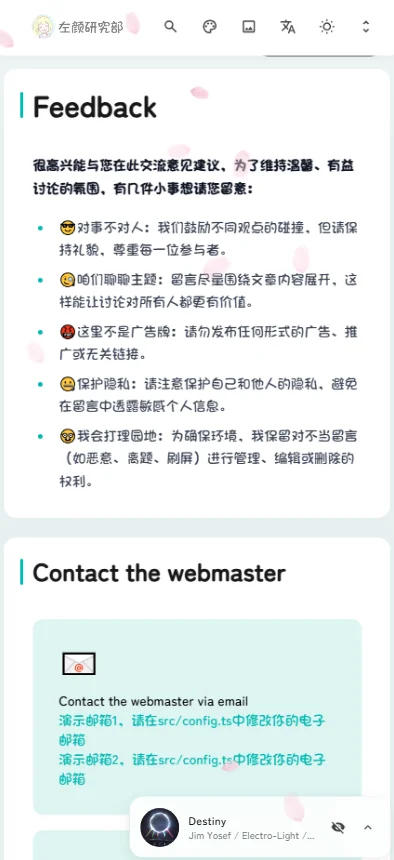
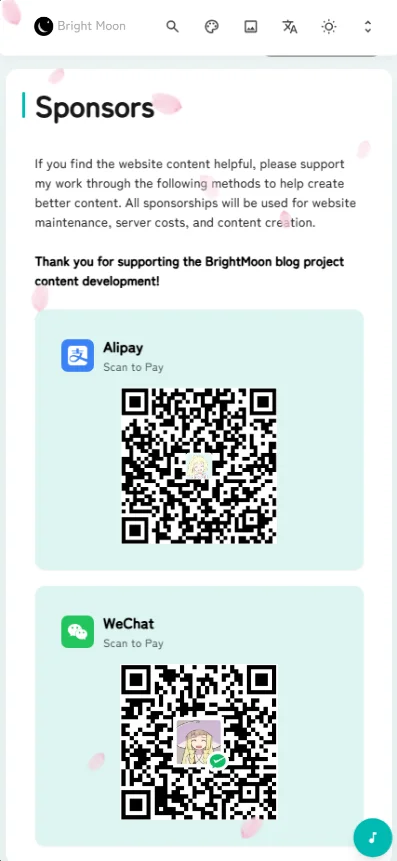
项目名称变更
Zuoyanblogs 临时代称正式更名 BrightMoon。取意简洁优雅、尽显二次元灵动气质。以此为界，重新出发，唯愿明月如初，清辉如故。

diff --git a/src/data/anime.ts b/src/data/anime.ts
@@ -22,7 +22,7 @@ const localAnimeList: AnimeItem[] = [
 		status: "completed",
 		rating: 10,
 		cover: "/assets/anime/Pokémon.webp",
-		description: "\"I got a Pokémon!!\"",
+		description: '"I got a Pokémon!!"',
 		episodes: "271 episodes",
 		year: "1997",
 		genre: ["Hot-blooded ", "Battle", "Inspirational", "Children"],
@@ -38,7 +38,8 @@ const localAnimeList: AnimeItem[] = [
 		status: "completed",
 		rating: 9.8,
 		cover: "/assets/anime/Himouto! Umaru-chan.webp",
-		description: "The perfect little sister, the perfect high school student, but at home she's a super lazy himouto.",
+		description:
+			"The perfect little sister, the perfect high school student, but at home she's a super lazy himouto.",
 		episodes: "12 episodes",
 		year: "2015",
 		genre: ["Slice of Life", "Moe"],
@@ -54,7 +55,8 @@ const localAnimeList: AnimeItem[] = [
 		status: "completed",
 		rating: 9.7,
 		cover: "/assets/anime/LoveLive! Sunshine.webp",
-		description: "The story of nine girls who strive forward with radiance as their goal.",
+		description:
+			"The story of nine girls who strive forward with radiance as their goal.",
 		episodes: "13 episodes",
 		year: "2016",
 		genre: ["Music", "Idol"],
@@ -86,7 +88,8 @@ const localAnimeList: AnimeItem[] = [
 		status: "completed",
 		rating: 9.8,
 		cover: "/assets/anime/CITY.webp",
-		description: "Welcome to the wonderfully thrilling CITY where heart-pounding moments await!",
+		description:
+			"Welcome to the wonderfully thrilling CITY where heart-pounding moments await!",
 		episodes: "13 episodes",
 		year: "2025",
 		genre: ["Manga Adaptation", "Slice of Life", "Comedy"],
@@ -187,7 +190,8 @@ const localAnimeList: AnimeItem[] = [
 		status: "completed",
 		rating: 9.8,
 		cover: "/assets/anime/Natsume's Book of Friends.webp",
-		description: "High school student Takashi Natsume has had the ability to see yokai since childhood.",
+		description:
+			"High school student Takashi Natsume has had the ability to see yokai since childhood.",
 		episodes: "13 episodes",
 		year: "2008",
 		genre: ["Fantasy", "Healing", "Tear-jerker", "Slice of Life"],
@@ -203,7 +207,8 @@ const localAnimeList: AnimeItem[] = [
 		status: "completed",
 		rating: 9.9,
 		cover: "/assets/anime/Natsume's Book of Friends_7.webp",
-		description: "High school student Takashi Natsume has had the ability to see yokai since childhood.",
+		description:
+			"High school student Takashi Natsume has had the ability to see yokai since childhood.",
 		episodes: "13 episodes",
 		year: "2024",
 		genre: ["Fantasy", "Healing", "Tear-jerker", "Slice of Life"],

diff --git a/src/config.ts b/src/config.ts
@@ -26,7 +26,7 @@ import { getTranslateLanguageFromConfig } from "./utils/language-utils";
 const SITE_LANG = "en"; // 语言代码，例如：'en', 'zh_CN', 'zh_TW' , 'ja' , 'ar' , 'de' , 'es' , 'fr', 'id' , 'ko' , 'ru' , 'th' , 'tr' , 'vi' 等。
 const SITE_TIMEZONE = 8; //设置你的网站时区 from -12 to 12 default in UTC+8
 export const siteConfig: SiteConfig = {
-	title: "Zuoyanblogs",
+	title: "BrightMoon",
 	subtitle: "Modern, feature-rich static blog",
 	siteURL: "https://www.example.com/", // 请替换为你的站点URL，以斜杠结尾
 	siteStartDate: "2025-10-30", // 站点开始运行日期，用于站点统计组件计算运行天数
@@ -670,7 +670,7 @@ export const pioConfig: import("./types/config").PioConfig = {
 	mode: "draggable", // 默认为可拖拽模式
 	hiddenOnMobile: true, // 默认在移动设备上隐藏
 	dialog: {
-		welcome: "Welcome to the Zuoyanblogs!", // 欢迎词
+		welcome: "Welcome to the BrightMoon!", // 欢迎词
 		touch: [
 			"What are you doing?",
 			"Do not touch me!",
@@ -680,7 +680,7 @@ export const pioConfig: import("./types/config").PioConfig = {
 		home: "Click here to return to the homepage !", // 首页提示
 		skin: ["Have you seen my new outfit ?", "This looks really good !"], // 换装提示
 		close: "QWQ , Next see you again~", // 关闭提示
-		link: "https://github.com/Zuoyan233/Zuoyanblogs", // 关于链接
+		link: "https://github.com/Zuoyan233/BrightMoon", // 关于链接
 	},
 };
 

diff --git a/src/i18n/languages/th.ts b/src/i18n/languages/th.ts
@@ -268,7 +268,7 @@ export const th: Translation = {
 	// Sponsorship Page
 	[Key.sponsorsNotice1]:
 		"หากคุณพบว่าเนื้อหาบนเว็บไซต์มีประโยชน์ กรุณาสนับสนุนงานของฉันผ่านวิธีการดังต่อไปนี้ เพื่อช่วยสร้างสรรค์เนื้อหาที่ดียิ่งขึ้น เงินสนับสนุนทั้งหมดจะถูกใช้ไปกับการบำรุงรักษาเว็บไซต์ ค่าเซิร์ฟเวอร์ และการสร้างสรรค์เนื้อหา",
-	[Key.sponsorsNotice2]: "ขอบคุณที่สนับสนุนการพัฒนาเนื้อหาของบล็อก Zuoyanblogs!",
+	[Key.sponsorsNotice2]: "ขอบคุณที่สนับสนุนการพัฒนาเนื้อหาของบล็อก BrightMoon!",
 	[Key.wechatPay]: "WeChat",
 	[Key.aliPay]: "Alipay",
 	[Key.scanPayQRcode]: "สแกนเพื่อชำระเงิน",

diff --git a/src/i18n/languages/ru.ts b/src/i18n/languages/ru.ts
@@ -279,7 +279,7 @@ export const ru: Translation = {
 	// Страница спонсорства
 	[Key.sponsorsNotice1]:
 		"Если материалы сайта оказались для вас полезны, пожалуйста, поддержите мою работу, используя один из способов ниже. Это поможет создавать более качественный контент. Все пожертвования будут направлены на поддержку сайта, оплату сервера и создание контента.",
-	[Key.sponsorsNotice2]: "Спасибо за поддержку развития блога Zuoyanblogs!",
+	[Key.sponsorsNotice2]: "Спасибо за поддержку развития блога BrightMoon!",
 	[Key.wechatPay]: "WeChat",
 	[Key.aliPay]: "Alipay",
 	[Key.scanPayQRcode]: "Сканируйте для оплаты",

diff --git a/src/i18n/languages/ja.ts b/src/i18n/languages/ja.ts
@@ -276,7 +276,7 @@ export const ja: Translation = {
 	[Key.sponsorsNotice1]:
 		"このウェブサイトの内容が役に立った場合は、以下の方法で活動を支援していただければ幸いです。より良いコンテンツ作成に役立てます。すべての支援は、ウェブサイトの維持、サーバー費用、コンテンツ制作に使用されます。",
 	[Key.sponsorsNotice2]:
-		"Zuoyanblogsブログプロジェクトのコンテンツ開発を支援していただき、ありがとうございます！",
+		"BrightMoon ブログプロジェクトのコンテンツ開発を支援していただき、ありがとうございます！",
 	[Key.wechatPay]: "WeChat",
 	[Key.aliPay]: "Alipay",
 	[Key.scanPayQRcode]: "スキャンして支払う",

diff --git a/src/data/devices.ts b/src/data/devices.ts
@@ -18,11 +18,12 @@ export type DeviceCategory = {
 export const devicesData: DeviceCategory = {
 	Xiaomi: [
 		{
-			name: "Xiaomi 15 Ultra",
-			image: "/images/device/Xiaomi 15 Ultra.webp",
-			specs: "白色 / 16G + 1TB",
-			description: "骁龙8至尊版芯片，徕卡夜神四摄，强续航金沙江电池",
-			link: "https://www.mi.com/prod/xiaomi-15-ultra",
+			name: "Xiaomi 17 Ultra by Leica",
+			image: "/images/device/Xiaomi 17 Ultra by Leica.webp",
+			specs: "黑银色 / 16G + 1TB",
+			description:
+				"第五代骁龙8至尊版芯片，徕卡APO认证超纯光学系统，徕卡一瞬还原真实相机本色，大师变焦环，双路立体环形冷泵，90W / 50W 有无线极速充电",
+			link: "https://www.mi.com/prod/xiaomi-17-ultra-byleica",
 		},
 	],
 };

diff --git a/src/data/projects.ts b/src/data/projects.ts
@@ -20,8 +20,8 @@ export interface Project {
 
 export const projectsData: Project[] = [
 	{
-		id: "zuoyanblogs",
-		title: "Zuoyanblogs",
+		id: "BrightMoon",
+		title: "BrightMoon",
 		description: "现代化特色功能的二次元静态博客主题（基于 Astro 框架驱动）",
 		image: "",
 		category: "web",
@@ -29,7 +29,7 @@ export const projectsData: Project[] = [
 		status: "completed",
 		liveDemo: "https://www.zuoyanblogs.xyz/",
 		sourceCode: "https://github.com/Zuoyan233", // 更改为GitHub链接
-		visitUrl: "https://github.com/Zuoyan233/Zuoyanblogs", // 添加前往项目链接
+		visitUrl: "https://github.com/Zuoyan233/BrightMoon", // 添加前往项目链接
 		startDate: "2025-10-01",
 		endDate: "2025-12-06",
 		featured: true,

diff --git a/src/i18n/languages/ar.ts b/src/i18n/languages/ar.ts
@@ -275,7 +275,7 @@ export const ar: Translation = {
 	// Sponsorship Page
 	[Key.sponsorsNotice1]:
 		"إذا وجدت محتوى الموقع مفيدًا، يرجى دعم عملي من خلال الطرق التالية للمساعدة في إنشاء محتوى أفضل. سيتم استخدام جميع التبرعات لصيانة الموقع وتكاليف الخادم وإنشاء المحتوى.",
-	[Key.sponsorsNotice2]: "شكرًا لدعمكم لتطوير محتوى مدونة Zuoyanblogs!",
+	[Key.sponsorsNotice2]: "شكرًا لدعمكم لتطوير محتوى مدونة BrightMoon!",
 	[Key.wechatPay]: "WeChat",
 	[Key.aliPay]: "Alipay",
 	[Key.scanPayQRcode]: "امسح للدفع",

diff --git a/src/i18n/languages/vi.ts b/src/i18n/languages/vi.ts
@@ -281,7 +281,7 @@ export const vi: Translation = {
 	[Key.sponsorsNotice1]:
 		"Nếu bạn thấy nội dung trang web hữu ích, vui lòng hỗ trợ công việc của tôi thông qua các phương thức sau để giúp tạo ra nội dung tốt hơn. Mọi khoản tài trợ sẽ được sử dụng cho việc duy trì trang web, chi phí máy chủ và sáng tạo nội dung.",
 	[Key.sponsorsNotice2]:
-		"Cảm ơn bạn đã hỗ trợ phát triển nội dung dự án blog Zuoyanblogs!",
+		"Cảm ơn bạn đã hỗ trợ phát triển nội dung dự án blog BrightMoon!",
 	[Key.wechatPay]: "WeChat",
 	[Key.aliPay]: "Alipay",
 	[Key.scanPayQRcode]: "Quét mã để thanh toán",

diff --git a/src/i18n/languages/tr.ts b/src/i18n/languages/tr.ts
@@ -283,7 +283,7 @@ export const tr: Translation = {
 	[Key.sponsorsNotice1]:
 		"Web sitesi içeriğini faydalı buluyorsanız, daha iyi içerikler oluşturmama yardımcı olmak için aşağıdaki yöntemlerle çalışmalarımı destekleyebilirsiniz. Tüm sponsorluklar web sitesi bakımı, sunucu maliyetleri ve içerik oluşturma için kullanılacaktır.",
 	[Key.sponsorsNotice2]:
-		"Zuoyanblogs blog projesi içerik gelişimini desteklediğiniz için teşekkür ederiz!",
+		"BrightMoon blog projesi içerik gelişimini desteklediğiniz için teşekkür ederiz!",
 	[Key.wechatPay]: "WeChat",
 	[Key.aliPay]: "Alipay",
 	[Key.scanPayQRcode]: "Ödeme için Tara",

diff --git a/src/i18n/languages/de.ts b/src/i18n/languages/de.ts
@@ -282,7 +282,7 @@ export const de: Translation = {
 	[Key.sponsorsNotice1]:
 		"Wenn Sie die Inhalte der Website hilfreich finden, unterstützen Sie bitte meine Arbeit auf folgende Weise, um dabei zu helfen, bessere Inhalte zu erstellen. Alle Sponsoringbeiträge werden für die Website-Wartung, Serverkosten und die Erstellung von Inhalten verwendet.",
 	[Key.sponsorsNotice2]:
-		"Vielen Dank für Ihre Unterstützung der Zuoyanblogs Blog-Projektinhaltsentwicklung!",
+		"Vielen Dank für Ihre Unterstützung der BrightMoon Blog-Projektinhaltsentwicklung!",
 	[Key.wechatPay]: "WeChat",
 	[Key.aliPay]: "Alipay",
 	[Key.scanPayQRcode]: "Zum Bezahlen scannen",

diff --git a/src/i18n/languages/ko.ts b/src/i18n/languages/ko.ts
@@ -276,7 +276,7 @@ export const ko: Translation = {
 	[Key.sponsorsNotice1]:
 		"웹사이트 콘텐츠가 도움이 되셨다면, 아래 방법으로 제 작업을 후원해주세요. 더 나은 콘텐츠 제작에 도움이 됩니다. 모든 후원금은 웹사이트 유지보수, 서버 비용 및 콘텐츠 제작에 사용됩니다.",
 	[Key.sponsorsNotice2]:
-		"Zuoyanblogs 블로그 프로젝트 콘텐츠 개발을 후원해주셔서 감사합니다!",
+		"BrightMoon 블로그 프로젝트 콘텐츠 개발을 후원해주셔서 감사합니다!",
 	[Key.wechatPay]: "WeChat",
 	[Key.aliPay]: "Alipay",
 	[Key.scanPayQRcode]: "스캔하여 결제",
